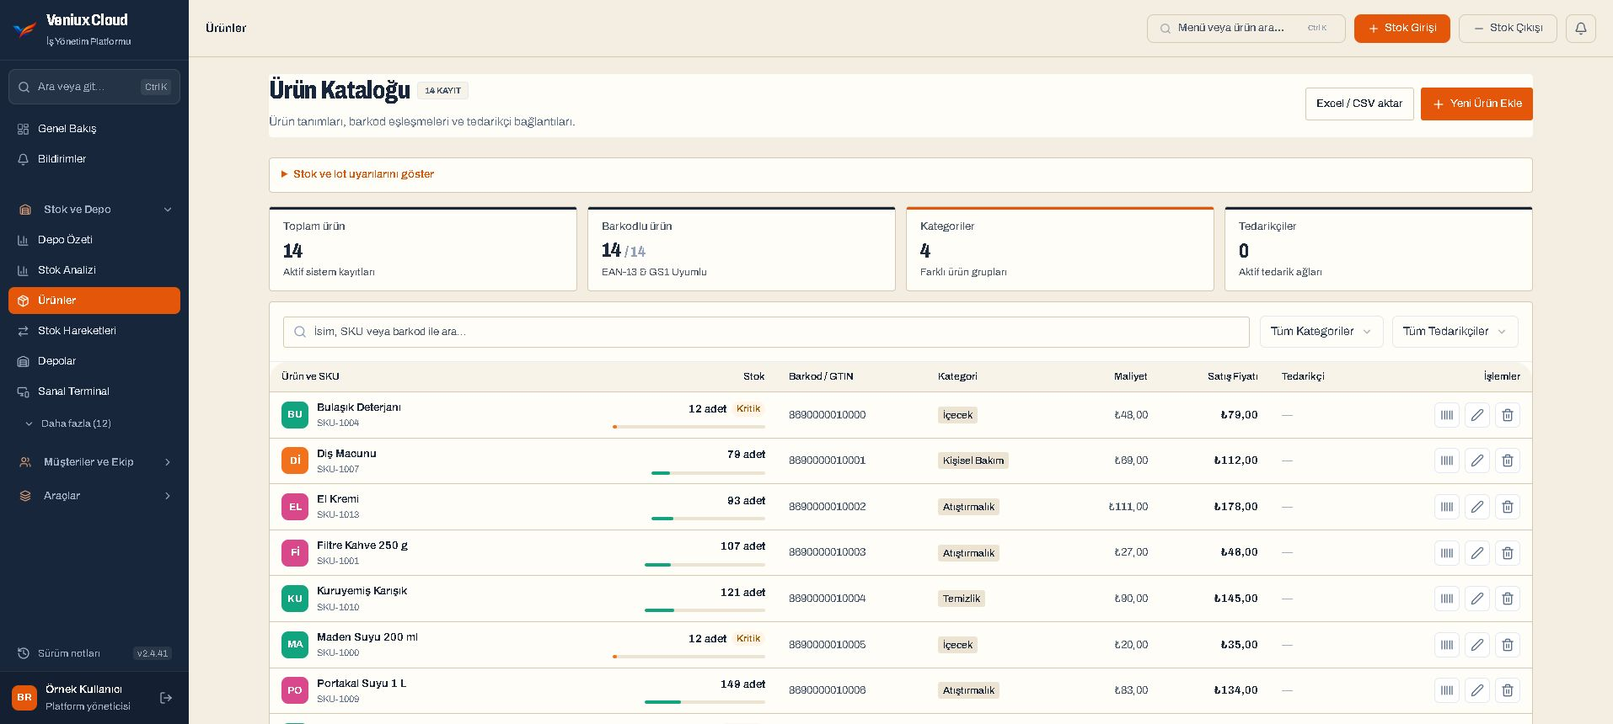
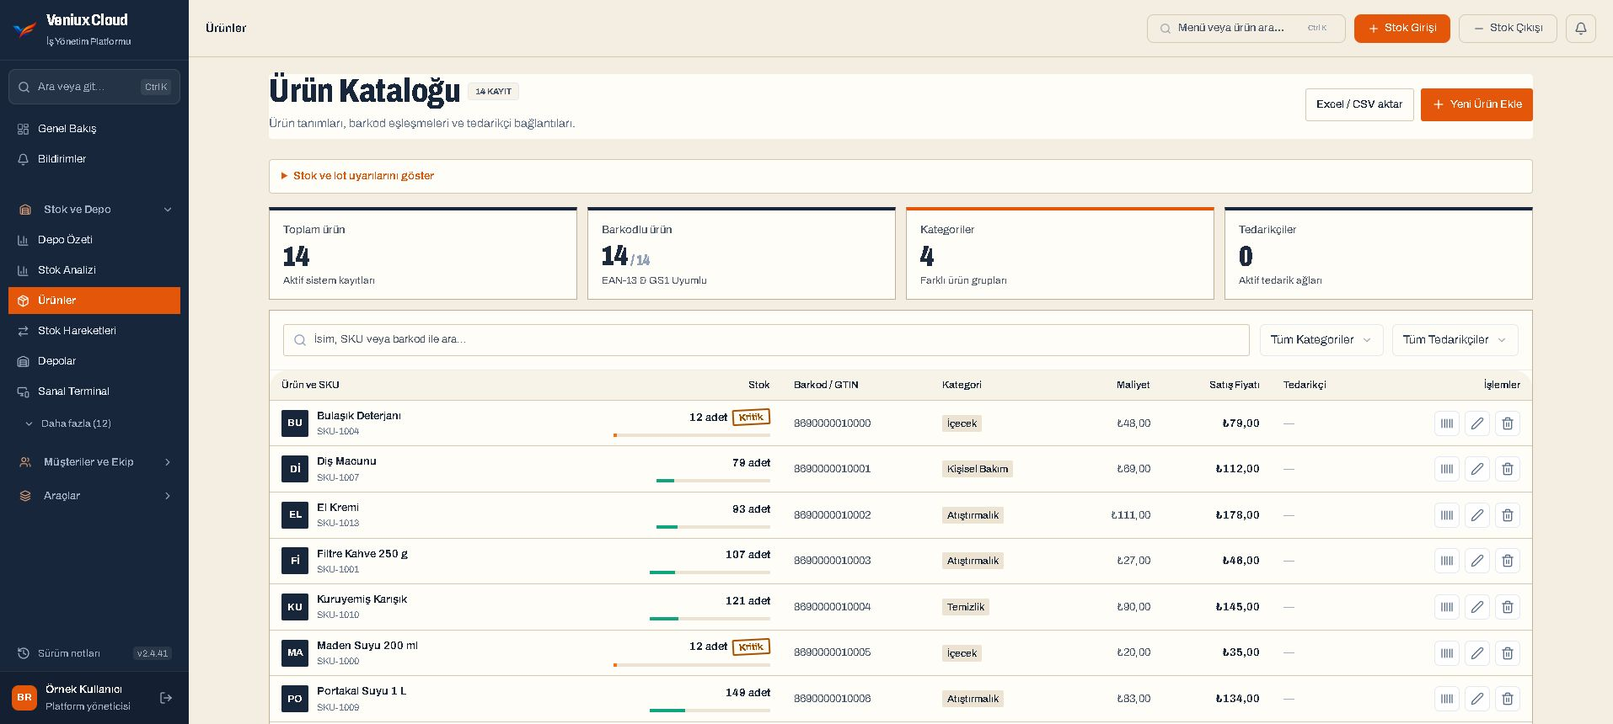
Alt sayfalara nesne ve yolculuk, fiyat etiketleri, programa damga ve etiket dili

diff --git a/website-php/assets/home.css b/website-php/assets/home.css
@@ -24,7 +24,7 @@ main h3{font-size:clamp(28px,3vw,38px);font-weight:750;font-stretch:80%;line-hei
 .hx-lead{max-width:30em;margin:26px 0 0;color:var(--ink-soft);font-size:21px;line-height:1.5}
 .hx-cta{display:flex;flex-wrap:wrap;align-items:center;gap:24px;margin:32px 0 0}
 .hx-textlink{font-weight:600;text-underline-offset:4px}
-.hx-shelf{position:relative;padding:34px 0 0}
+.hx-shelf{position:relative;padding:34px 0 0;justify-self:stretch}
 .hx-rail{position:absolute;left:0;right:-40vw;top:0;height:30px;background:#2a3a50;border-bottom:5px solid #15202e;z-index:0}
 .hx-label{position:relative;z-index:1;margin-left:6%;padding:20px 24px;background:var(--white);border:1px solid #c9bda6;transform:rotate(-1.6deg);transform-origin:top left}
 .hx-label:before{content:'';position:absolute;left:50%;top:-26px;width:90px;height:30px;margin-left:-45px;background:#f2e4a9cc;transform:rotate(1.5deg)}
@@ -120,3 +120,62 @@ main h3{font-size:clamp(28px,3vw,38px);font-weight:750;font-stretch:80%;line-hei
 @media(max-width:940px){.hx-hero{padding:40px 0 64px}.hx-hero-grid,.hx-till-grid,.hx-receipt-grid,.hx-plain-grid{grid-template-columns:minmax(0,1fr);gap:40px}.hx-journey-grid{display:block}.hx-stage{display:none}.hx-card-inline{display:block}.hx-step{min-height:0}.hx-tags{grid-template-columns:repeat(2,minmax(0,1fr))}}
 @media(max-width:940px){.hx-rail{left:-40vw}}
 @media(max-width:600px){body{font-size:17px}.hx-lead{font-size:19px}.hx-tags,.hx-qa{grid-template-columns:minmax(0,1fr)}.hx-pos{grid-template-columns:minmax(0,1fr)}.hx-pos-lines{min-height:0}.hx-label{margin-left:0;padding:16px}.hx-stamp{margin-left:18%}}
+
+/* Alt sayfa nesneleri */
+.hx-obj{position:relative;justify-self:center;width:100%}
+.hx-box{max-width:460px;padding:44px 40px;background:#c49a63;border:1px solid #9d7743;transform:rotate(-1.2deg)}
+.hx-box-tape{position:absolute;left:0;right:0;top:0;height:30px;background:#e0c08d;border-bottom:1px solid #b08a54}
+.hx-box-label{display:grid;gap:4px;padding:18px;background:var(--white);border:1px solid #9d7743;font-size:14.5px;font-weight:600}
+.hx-box-label strong{font-size:54px;font-weight:800;font-stretch:72%;line-height:1}
+.hx-box-label .hx-barcode{width:100%;height:42px;margin:6px 0}
+.hx-stamp-g{border-color:var(--green)!important;color:var(--green)!important}
+.hx-box .hx-stamp{position:absolute;right:-16px;bottom:-18px;margin:0}
+.hx-date,.hx-ticket{max-width:400px;padding:28px;background:var(--white);border:2px solid var(--ink);transform:rotate(-1.5deg)}
+.hx-date>span,.hx-ticket>span{font-size:14px;font-weight:700;letter-spacing:.05em}
+.hx-date strong{display:block;font-size:clamp(84px,10vw,128px);font-weight:900;font-stretch:68%;line-height:.95}
+.hx-date em{display:block;font-size:34px;font-style:normal;font-weight:800;font-stretch:75%}
+.hx-date-row{display:flex;justify-content:space-between;gap:10px;margin-top:12px;padding-top:10px;border-top:1px dashed var(--ink-soft)}
+.hx-date .hx-stamp{position:absolute;right:-14px;bottom:62px;margin:0}
+.hx-note{max-width:430px;padding:30px 28px;background:#fbeea8;border:1px solid #d9c770;font-size:19px;transform:rotate(1.4deg)}
+.hx-note-q{font-size:30px;font-weight:800;font-stretch:75%;line-height:1.1}
+.hx-note .hx-stamp{margin:6px 0 0 auto}
+.hx-ticket strong{display:block;margin:6px 0;font-size:60px;font-weight:900;font-stretch:70%;line-height:1}
+.hx-ticket .hx-barcode{width:100%;height:36px;margin-top:14px}
+.hx-receipt-big{max-width:360px;justify-self:center;font-size:17px;padding:30px 26px;border-top:0;box-shadow:none;background-image:none}
+.hx-receipt-big b{font-size:38px}
+.hx-receipt-total{color:var(--ink)!important;font-size:30px!important}
+.hx-band{padding:80px 0}
+.hx-band p{max-width:36em;margin:18px 0 0;color:#bcc6d4;font-size:21px}
+.hx-frame-sec{padding:88px 0}
+.hx-frame{margin:32px 0 0;background:var(--ink);border:1px solid var(--ink);padding:0 10px 10px}
+.hx-frame-bar{display:flex;gap:6px;padding:11px 2px}
+.hx-frame-bar i{width:10px;height:10px;border-radius:50%;background:#55667f}
+.hx-frame img{display:block;width:100%;height:auto;background:var(--white)}
+.hx-frame figcaption{padding:8px 2px 0;color:#bcc6d4;font-size:14px}
+.hx-faq-top{padding-top:88px}
+.hx-hero .hx-wrap,.hx-journey .hx-wrap{min-width:0}
+main .vs-legacy h1,main h1{max-width:13em}
+/* Fiyat etiketleri */
+.vs-legacy .pricing-intro{text-align:left!important;padding-top:56px!important}
+.vs-legacy .pricing-intro h1{margin-inline:0;font-size:clamp(54px,8vw,100px)!important}
+.vs-legacy .pricing-intro>p{margin-inline:0!important}
+.vs-legacy .pricing-grid{align-items:start;gap:26px}
+.vs-legacy .hx-hang{position:relative;margin-top:26px;padding:34px 24px 24px!important;border:1px solid #bfb196!important;border-top:1px solid #bfb196!important;background:var(--white)!important}
+.vs-legacy .hx-hang:nth-child(1){transform:rotate(-1deg)}
+.vs-legacy .hx-hang:nth-child(3){transform:rotate(1deg)}
+.vs-legacy .hx-hang:before{content:'';position:absolute;left:50%;top:-14px;width:28px;height:28px;margin-left:-14px;border:3px solid var(--ink);border-radius:50%;background:var(--paper)}
+.vs-legacy .hx-hang.price-featured{background:var(--ink)!important;border-color:var(--ink)!important}
+.vs-legacy .hx-hang.price-featured :is(h2,p,span,li,strong,div,.price-amount,.price-amount *){color:#fff!important}
+.vs-legacy .hx-hang.price-featured .button{background:var(--orange)!important;border-color:var(--orange)!important}
+.vs-legacy .price-amount{font-size:58px!important;font-weight:900!important;font-stretch:70%!important;line-height:1!important}
+.vs-legacy .price-amount span{font-size:16px!important;font-weight:600!important;font-stretch:100%}
+.vs-legacy .billing-switch a{color:var(--ink)!important;background:none!important;text-decoration:none}
+.vs-legacy .billing-switch a[aria-current]{background:var(--ink)!important;color:#fff!important}
+.vs-legacy .billing-switch a[aria-current] *{color:#fff!important;background:none!important}
+/* İndirme biletleri */
+.vs-legacy .program-heading h1{font-size:clamp(54px,8vw,100px)!important}
+.vs-legacy .program-download-grid>*{position:relative;background:var(--white)!important;border:1px solid #bfb196!important;border-left:10px solid var(--ink)!important}
+.vs-legacy .program-download-grid>*:nth-child(2){border-left-color:var(--orange)!important;transform:rotate(.5deg)}
+.vs-legacy .program-download-grid>*:nth-child(1){transform:rotate(-.5deg)}
+.vs-legacy .changelog-heading h1,.vs-legacy .hosting-guide-page h1,.vs-legacy .legal-document h1{font-size:clamp(46px,6.4vw,84px)!important}
+@media(max-width:940px){.hx-hero-grid>.hx-obj{margin-top:12px}.hx-box .hx-stamp,.hx-date .hx-stamp{right:0}.vs-legacy .hx-hang,.vs-legacy .program-download-grid>*{transform:none!important}}

diff --git a/frontend/src/vx-foundation.css b/frontend/src/vx-foundation.css
@@ -327,3 +327,34 @@ html:root[data-design='veniux']:not([data-theme='dark']) .pos-terminal .pos-pay:
 html:root[data-design='veniux']:not([data-theme='dark']) .pos-terminal .retail-empty>span{background:#f8e6d6;color:#b84504}
 html:root[data-design='veniux']:not([data-theme='dark']) .pos-terminal .pos-actions button:not(.pos-pay) svg{color:#b84504}
 html:root[data-design='veniux']:not([data-theme='dark']) .pos-terminal .retail-cart thead th{background:#f8f3e8}
+
+/* Site nesneleri programda: etiket kartları, damga durumları, barkod şeridi, fiş. */
+html:root[data-design='veniux']:not([data-theme='dark']) .enterprise-content h1{font-size:40px!important;line-height:1.02}
+html:root[data-design='veniux']:not([data-theme='dark']) .enterprise-content .vx-metric-strip>div,html:root[data-design='veniux']:not([data-theme='dark']) .enterprise-content .ax-kpi{position:relative;border:1px solid #bfb196;border-top:4px solid #17263a;border-radius:0;background:#fffdf8}
+html:root[data-design='veniux']:not([data-theme='dark']) .enterprise-content .vx-metric-strip>div:before{display:none}
+html:root[data-design='veniux']:not([data-theme='dark']) .enterprise-content .vx-metric-strip>div:nth-child(3){border-top-color:#e4570a}
+html:root[data-design='veniux']:not([data-theme='dark']) .enterprise-content .vx-metric-strip p{font-size:34px;font-weight:900!important;font-stretch:70%;line-height:1}
+html:root[data-design='veniux']:not([data-theme='dark']) .enterprise-content :is(.ax-panel,.veniux-card,.vx-table-wrap:not(.vx-table-flush)){border:1px solid #bfb196;border-radius:0;background:#fffdf8}
+html:root[data-design='veniux']:not([data-theme='dark']) .enterprise-content :is(.ax-panel-head,.business-panel-heading){border-bottom:2px solid #17263a}
+html:root[data-design='veniux']:not([data-theme='dark']) .enterprise-content tbody td{border-bottom:1px dashed #d6c9b2}
+html:root[data-design='veniux']:not([data-theme='dark']) .vx-stock-cell small{padding:0 6px;border:2px solid currentColor;border-radius:2px;background:none!important;font-weight:800;transform:rotate(-3deg)}
+html:root[data-design='veniux']:not([data-theme='dark']) .vx-stock-cell[data-state='low'] small{color:#a65200}
+html:root[data-design='veniux']:not([data-theme='dark']) .enterprise-content .ax-pill[data-tone]{padding:0 6px;border:2px solid currentColor;border-radius:2px;background:none;font-weight:800}
+html:root[data-design='veniux']:not([data-theme='dark']) .enterprise-content .vx-chip{border-radius:2px}
+html:root[data-design='veniux']:not([data-theme='dark']) .vx-product-mark{border-radius:2px;background:#17263a!important}
+html:root[data-design='veniux']:not([data-theme='dark']) .vx-stock-bar,html:root[data-design='veniux']:not([data-theme='dark']) .vx-stock-bar i{border-radius:0}
+html:root[data-design='veniux']:not([data-theme='dark']) .dx-hero{border-radius:0}
+html:root[data-design='veniux']:not([data-theme='dark']) .dx-hero-main:after{content:'';position:absolute;right:24px;top:22px;width:150px;height:34px;opacity:.55;background:repeating-linear-gradient(90deg,#fff 0 2px,transparent 2px 4px,#fff 4px 5px,transparent 5px 9px,#fff 9px 12px,transparent 12px 14px)}
+html:root[data-design='veniux']:not([data-theme='dark']) .dx-todo a{border:1px solid #bfb196;border-radius:0}
+html:root[data-design='veniux']:not([data-theme='dark']) .dx-todo a:hover{transform:rotate(-.5deg);border-color:#17263a}
+html:root[data-design='veniux']:not([data-theme='dark']) .dx-todo i{border-radius:0;background:none;border:2px solid currentColor}
+html:root[data-design='veniux']:not([data-theme='dark']) .dx-todo b{font-size:24px;font-stretch:72%}
+html:root[data-design='veniux']:not([data-theme='dark']) .pos-terminal .pos-total{border-radius:0}
+html:root[data-design='veniux']:not([data-theme='dark']) .pos-terminal :is(.pos-scan,.pos-actions,.retail-cart){border:1px solid #bfb196!important;border-radius:0!important}
+html:root[data-design='veniux']:not([data-theme='dark']) .pos-terminal .pos-line-total{font-stretch:75%;font-size:19px!important;font-weight:800}
+html:root[data-design='veniux']:not([data-theme='dark']) .pos-terminal .retail-cart td{border-bottom:1px dashed #d6c9b2}
+html:root[data-design='veniux']:not([data-theme='dark']) .pos-terminal .pos-line-stock[data-low]{border:2px solid currentColor;display:inline-block;padding:0 5px;transform:rotate(-3deg)}
+html:root[data-design='veniux']:not([data-theme='dark']) .pos-terminal .pos-status[data-success]{background:#0d7a57;color:#fff}
+html:root[data-design='veniux']:not([data-theme='dark']) .pos-terminal .pos-status[data-error]{background:#b92c1c;color:#fff}
+html:root[data-design='veniux']:not([data-theme='dark']) .enterprise-shell .sb .sb-item[data-active='true']{border-radius:0}
+html:root[data-design='veniux']:not([data-theme='dark']) .vx-dialog .vx-dialog-panel{border:1px solid #bfb196;border-top:6px solid #17263a;border-radius:0;background:#fffdf8}

diff --git a/website-php/solution-data.php b/website-php/solution-data.php
@@ -1,0 +1,40 @@
+<?php
+declare(strict_types=1);
+// Her çözüm sayfasının nesnesi ve yolculuğu. Kartlardaki değerler örnektir.
+return [
+ '/stok-yonetimi'=>['object'=>'label','band'=>['Barkodu okutmak stoğu değiştirmez.','Okutma ürünü bulur. Stok, siz giriş, satış veya transfer kaydedince değişir. Yanlışlıkla okutulan barkod stoğu bozmaz.'],'shot'=>['shot-products.jpg','Ürün listesi: stok miktarı, barkod ve fiyat'],'stops'=>[
+  ['Ürün kartı','Her ürünün tek bir kartı var.','Barkod, birim, fiyat ve tedarikçi aynı kartta. Elinizdeki Excel listesini sütun eşleştirip önizleyerek aktarırsınız.','Ürün kartı',[['Ad','Filtre kahve 250 g'],['Barkod','8690000010001'],['Satış fiyatı','46,00 ₺']],'Kayıtlı','good'],
+  ['Hareket','Stok neden değişti, belli.','Her giriş, satış, iade ve transfer tarihiyle kayda geçer. "Bu ürün nereye gitti?" sorusunun cevabı hareket geçmişindedir.','Hareket geçmişi',[['Mal kabul','+120'],['Kasa satışı','−2'],['Kalan','118 adet']],'Kayıtla uyumlu','good'],
+  ['Uyarı','Azalan ürün önünüze gelir.','Minimum seviyeye inen ürün kritik işaretlenir. Satış hızına göre kaç günde biteceği hesaplanır.','Kritik ürünler',[['Filtre kahve','18 / 30 adet'],['Bitmesine','3 gün'],['Öneri','80 adet']],'Kritik','warn'],
+  ['Sipariş','Liste hazır, onay sizde.','Öneriler tek düğmeyle tedarikçi başına taslağa dönüşür. Kimseye kendiliğinden sipariş gitmez.','Satın alma taslağı',[['Tedarikçi','Örnek Gıda Ltd.'],['Kalem','4 ürün'],['Durum','Onay bekliyor']],'Taslak','warn'],
+ ]],
+ '/depo-yonetimi'=>['object'=>'box','band'=>['Transfer stok yaratmaz.','Mal bir depodan diğerine geçince toplam değişmez, yalnız yeri değişir. Sayımda fark çıkarsa stok ancak yönetici onayından sonra güncellenir.'],'shot'=>['product-warehouse-v4.jpg','Depo ve tesis ekranı'],'stops'=>[
+  ['Mal kabul','Koli kapıda, kim aldı belli.','Siparişle karşılaştırarak kabul edin. Ürün, miktar ve teslim alan kayda geçer.','Mal kabul',[['Sipariş','Örnek Gıda Ltd.'],['Gelen','120 adet'],['Hedef raf','A-02']],'Kabul edildi','good'],
+  ['Raf','Ürün nerede diye aranmaz.','Raf haritası hangi gözde ne olduğunu gösterir. Ürünü rafa yerleştirme işlemi de kayıtlıdır.','Raf A-02',[['Filtre kahve','120 adet'],['Çay 1 kg','64 adet'],['Doluluk','Göz 14 dolu']],'Konum güncel','good'],
+  ['Toplama ve sevkiyat','Çıkan mal da kayıtlı.','Toplama listesiyle ürünü raftan alın, sevkiyatla çıkışını kapatın.','Toplama',[['Filtre kahve','24 adet'],['Raf','A-02'],['Durum','Toplanıyor']],'Sevkiyata hazır','warn'],
+  ['Sayım','Eksik mal sessizce kaybolmaz.','Rafı okutun, ürünleri okutun, sayaç artsın. Sayılanlar toplu olarak yönetici onayına gider.','Sayım farkı',[['Bulaşık deterjanı','5 adet eksik'],['Yaklaşık','240 TL'],['Durum','Onay bekliyor']],'Yöneticiye bildirildi','bad'],
+ ]],
+ '/market-pos'=>['object'=>'receipt','band'=>['Yetersiz stokta satış yapılmaz.','Sunucu reddeder, sepet korunur, kasiyer hatayı ödeme penceresinde görür. İndirim ve fiyat değişikliği de yönetici onayı ister.'],'shot'=>['shot-pos.jpg','Kasa ekranı: sepet ve ödenecek toplam'],'stops'=>[
+  ['Okut','Barkod okundu, sepete girdi.','Barkod okuyucu, telefon kamerası veya F6 ile ürün arama. Görselli hızlı satış modu da var.','Sepet',[['Filtre kahve','46,00'],['Tuzlu kraker','68,00'],['Toplam','114,00 ₺']],'2 ürün','good'],
+  ['Öde','F8, ödeme, bitti.','Nakit, kart, ikisi birden ya da yetkili kullanıcılar için veresiye. Para üstü kendiliğinden hesaplanır.','Ödeme',[['Toplam','114,00 ₺'],['Alınan','150,00 ₺'],['Para üstü','36,00 ₺']],'Tamamlandı','good'],
+  ['Düş','Satış olduğu an stoktan düşer.','Gün sonunu beklemeniz gerekmez. Fiş yazdırılır, hareket kaydı oluşur.','Stok',[['Filtre kahve','118 → 117'],['Tuzlu kraker','64 → 63'],['Kaynak','Kasa satışı']],'Stoktan düştü','good'],
+  ['Kapat','Vardiya sonunda kasa belli.','Vardiya açılır, kapanışta özet alınır. Gün sonu raporu ve iade aynı yerden.','Vardiya özeti',[['Satış','48 adet'],['Nakit','4.120,00 ₺'],['Kart','6.980,00 ₺']],'Kapatıldı','warn'],
+ ]],
+ '/lot-miat-takibi'=>['object'=>'date','band'=>['Toplam miktar yetmez.','Aynı üründen 100 adet var demek, hepsi aynı tarihli demek değil. Veniux partileri ayrı tutar.'],'shot'=>['product-lot-v4.jpg','Stok ve lot takibi paneli'],'stops'=>[
+  ['Parti','Her partinin kendi tarihi.','Mal kabulde lot numarası ve son kullanma tarihini girin. Parti stoğu ayrı izlenir.','Lot L-2041',[['Ürün','Süt 1 L'],['Miktar','48 adet'],['SKT','12.01.2027']],'Sağlam','good'],
+  ['Yaklaşan','Tarihi yaklaşan önünüze gelir.','Yaklaşan ve geçmiş tarihli lotlar ayrı listelenir. Uyarı süresini kendiniz belirlersiniz.','Tarih uyarısı',[['Lot L-1987','9 gün kaldı'],['Lot L-1950','3 gün kaldı'],['Lot L-1902','Geçmiş']],'Dikkat','warn'],
+  ['Satış','Önce tarihi yakın olan çıkar.','Kasada otomatik seçim en yakın uygun tarihi kullanır, isterseniz lotu elle seçersiniz. Satılamaz lot seçilemez.','Kasa · lot',[['Otomatik','En yakın tarih'],['Seçilen','L-1987'],['Satılamaz','L-1902']],'Korumalı','bad'],
+ ]],
+ '/yapay-zeka'=>['object'=>'note','band'=>['Sormadan işlem yapmaz.','Asistan bir şeyi değiştirmek isterse önce size gösterir, onaylamazsanız hiçbir şey olmaz. Stok tahmini de yapay zekâ değil, satış hızından yapılan düz hesaptır.'],'shot'=>['shot-overview.jpg','Genel bakış ekranı'],'stops'=>[
+  ['Sor','Türkçe sorun.','"Bu hafta hangi ürünler kritik?" gibi sorular kayıtlarınızdan yanıtlanır.','Soru',[['Siz','Hangi ürünler kritik?'],['Yanıt','4 ürün'],['Kaynak','Stok kayıtları']],'Yanıtlandı','good'],
+  ['Özetle','Güne başlarken özet.','Stok riski, açık uyarı ve geciken görevler tek yerde.','Günün öncelikleri',[['Stok riski','4'],['Açık uyarı','3'],['Geciken görev','0']],'Bugün','warn'],
+  ['Onayla','Son söz sizin.','Önerilen işlem önce ekrana gelir. Onaylarsanız uygulanır.','Önerilen işlem',[['İşlem','Sipariş taslağı'],['Kalem','4 ürün'],['Durum','Onayınızı bekliyor']],'Onay bekliyor','warn'],
+ ]],
+ '/demo'=>['object'=>'ticket','band'=>null,'shot'=>null,'stops'=>[
+  ['Yazın','İşinizi anlatın.','Depo sayınızı, kullanıcı sayınızı ve ne aradığınızı yazın.','Talep',[['Depo','2'],['Kullanıcı','6'],['Aranan','Kasa ve stok']],'Alındı','good'],
+  ['Görelim','Kendi işinize göre gösterelim.','Sizin senaryonuzu birlikte programda deneriz.','Görüşme',[['Konu','Mal kabul ve kasa'],['Süre','Birlikte belirlenir'],['Şekil','Çevrimiçi']],'Planlanıyor','warn'],
+ ]],
+ '/barkodlu-stok-takibi'=>['object'=>'label','cards'=>[['Ürün eşleştirme',[['Barkod','8690000010001'],['Ürün','Filtre kahve 250 g'],['Birim','Adet']],'Eşleşti','good'],['Okutma',[['Okunan','8690000010001'],['Stok değişimi','Yok'],['Sonraki adım','İşlem seçin']],'Yalnız arama','warn'],['İlk deneme',[['Ürün grubu','Küçük başlayın'],['Açılış','Sayarak girin'],['Kontrol','Hareket geçmişi']],'Önerilen','good'],['Bağlantı',[['USB','Klavye gibi'],['Seri','Ayar gerekir'],['Telefon','Kamera']],'Kullanıma bağlı','warn']]],
+ '/son-kullanma-tarihi-takibi'=>['object'=>'date','cards'=>[['Tarih uyarısı',[['Lot L-1987','9 gün kaldı'],['Lot L-1950','3 gün kaldı'],['Lot L-1902','Geçmiş']],'Dikkat','warn'],['Lot',[['Numara','L-2041'],['Miktar','48 adet'],['SKT','12.01.2027']],'Sağlam','good'],['Seçim',[['Otomatik','En yakın tarih'],['Elle','Lot seçilebilir'],['Geçmiş','Satılamaz']],'Korumalı','bad'],['Kontrol',[['Rapor','Yaklaşanlar'],['Süre','Siz belirlersiniz'],['Sorumlu','Depo']],'Takipte','good']]],
+ '/el-terminali-depo-yonetimi'=>['object'=>'box','cards'=>[['Terminal',[['Ürün','Filtre kahve'],['Raf','A-02'],['Stok','118 adet']],'Bulundu','good'],['Bağlantı',[['Sunucu','İşletmeniz'],['Giriş','QR kod'],['Yetki','Kullanıcı rolü']],'Bağlı','good'],['Depo işlemi',[['Sorgu','Barkodla'],['Kayıt','Yetkiye göre'],['Geçmiş','Tutulur']],'Kayıtlı','warn'],['Deneme',[['Cihaz','Önce deneyin'],['Okuyucu','Kamera veya tuş'],['Kabul','Sizde']],'Önerilen','warn']]],
+];

diff --git a/website-php/components/objects.php b/website-php/components/objects.php
@@ -1,0 +1,32 @@
+<?php
+declare(strict_types=1);
+// Barkod çizgileri süs amaçlıdır; sabit desenden üretilir.
+function homeBarcode(string $seed, int $height=44): string {
+    $x=0;$bars='';$hash=hash('crc32b',$seed).hash('md5',$seed);
+    foreach(str_split($hash) as $i=>$c){$v=hexdec($c);$w=1+$v%3;if($i%2===0)$bars.='<rect x="'.$x.'" y="0" width="'.$w.'" height="'.$height.'"/>';$x+=$w+($v%2);}
+    return '<svg class="hx-barcode" viewBox="0 0 '.$x.' '.$height.'" preserveAspectRatio="none" aria-hidden="true">'.$bars.'</svg>';
+}
+// Sayfanın ana nesnesi: raf etiketi, koli etiketi, fiş, tarih damgası, not, randevu fişi.
+function pageObject(string $type): string {
+    switch($type){
+     case 'box': return '<div class="hx-obj hx-box" role="img" aria-label="Koli çizimi: üzerinde sevk etiketi"><div class="hx-box-tape"></div><div class="hx-box-label"><span>SEVK ETİKETİ · A-02</span><strong>120 adet</strong><span>Filtre kahve 250 g</span>'.homeBarcode('koli',40).'<span>Teslim alan: Depo sorumlusu</span></div><div class="hx-stamp hx-stamp-g"><b>Kabul edildi</b><span>Örnek veri</span></div></div>';
+     case 'receipt': return '<div class="hx-obj hx-receipt hx-receipt-big" role="img" aria-label="Fiş çizimi: iki ürün, toplam 114 lira"><b>VENIUX MARKET</b><span>Kasa 01 · Örnek fiş</span><hr><div><span>Filtre kahve</span><span>46,00</span></div><div><span>Tuzlu kraker</span><span>68,00</span></div><hr><div class="hx-receipt-diff hx-receipt-total"><span>TOPLAM</span><span>114,00 ₺</span></div><div><span>Stok düştü</span><span>2 ürün</span></div>'.homeBarcode('fis',28).'</div>';
+     case 'date': return '<div class="hx-obj hx-date" role="img" aria-label="Son kullanma tarihi etiketi çizimi, üzerinde 3 gün kaldı damgası"><span>SON KULLANMA TARİHİ</span><strong>12.01</strong><em>2027</em><div class="hx-date-row"><span>Lot L-1950</span><span>48 adet</span></div><div class="hx-stamp"><b>3 gün kaldı</b><span>Örnek veri</span></div></div>';
+     case 'note': return '<div class="hx-obj hx-note" role="img" aria-label="Not kâğıdı çizimi: soru ve onay bekleyen öneri"><p class="hx-note-q">Bu hafta neyi sipariş etmeliyim?</p><p>4 ürün kritik. Filtre kahve 3 günde bitiyor. Taslak hazırlayayım mı?</p><div class="hx-stamp"><b>Onayınızı bekliyor</b><span>Örnek veri</span></div></div>';
+     case 'ticket': return '<div class="hx-obj hx-ticket" role="img" aria-label="Randevu fişi çizimi"><span>DEMO FİŞİ</span><strong>Sıra sizde</strong><div class="hx-date-row"><span>Süre</span><span>Birlikte belirlenir</span></div>'.homeBarcode('demo',32).'</div>';
+     default: return '<div class="hx-obj hx-shelf" role="img" aria-label="Raf etiketi çizimi: filtre kahve, 46 lira, 3 günde bitiyor uyarısı"><div class="hx-label"><div class="hx-label-top"><span>VENİUX · RAF A-02</span><span>GÖZ 14</span></div><strong class="hx-label-name">Filtre kahve 250 g</strong><div class="hx-label-mid">'.homeBarcode('filtre-kahve',52).'<div class="hx-price">46<small>,00 ₺</small></div></div><div class="hx-label-bot"><span>8690000010001</span><span>Stok: 18 adet</span></div></div><div class="hx-stamp"><b>3 günde bitiyor</b><span>Örnek veri</span></div><div class="hx-rail" aria-hidden="true"></div></div>';
+    }
+}
+function pageJourney(array $stops): string {
+    $list='';$cards='';
+    foreach($stops as $i=>[$tag,$title,$text,$head,$rows,$state,$tone]){
+        $rowHtml='';foreach($rows as [$a,$b])$rowHtml.='<div class="hx-card-row"><span>'.e($a).'</span><b>'.e($b).'</b></div>';
+        $card='<div class="hx-card-head">'.e($head).'</div>'.$rowHtml.'<div class="hx-card-state" data-tone="'.e($tone).'">'.e($state).'</div>';
+        $list.='<li class="hx-step" data-step="'.$i.'"><span class="hx-step-tag">'.str_pad((string)($i+1),2,'0',STR_PAD_LEFT).' · '.e($tag).'</span><h3>'.e($title).'</h3><p>'.e($text).'</p><div class="hx-card hx-card-inline" aria-hidden="true">'.$card.'</div></li>';
+        $cards.='<div class="hx-card" data-card="'.$i.'"'.($i===0?' data-on':'').'>'.$card.'</div>';
+    }
+    return '<div class="hx-journey-grid"><ol class="hx-steps">'.$list.'</ol><div class="hx-stage" aria-hidden="true"><div class="hx-stage-sticky">'.$cards.'<p class="hx-stage-note">Örnek veriler.</p></div></div></div>';
+}
+function pageFrame(string $image,string $alt,int $w=1500,int $h=900): string {
+    return '<section class="hx-frame-sec"><div class="hx-wrap"><h2>Programın kendi ekranı.</h2><figure class="hx-frame"><div class="hx-frame-bar" aria-hidden="true"><i></i><i></i><i></i></div><img src="/assets/'.e($image).'?v=5" width="'.$w.'" height="'.$h.'" loading="lazy" decoding="async" alt="'.e($alt).'"><figcaption>İşletme ve ürünler örnek veridir.</figcaption></figure></div></section>';
+}

diff --git a/website-php/solution-view.php b/website-php/solution-view.php
@@ -1,19 +1,23 @@
 <?php declare(strict_types=1);
 $faqs=(require __DIR__.'/product-faqs.php')[$path]??[];
-$shot=['/stok-yonetimi'=>['shot-products.jpg','Ürün listesi: stok miktarı, barkod ve fiyat'],'/depo-yonetimi'=>['product-warehouse-v4.jpg','Depo ve tesis ekranı'],'/market-pos'=>['shot-pos.jpg','Kasa ekranı: sepet ve ödenecek toplam'],'/lot-miat-takibi'=>['product-lot-v4.jpg','Stok ve lot takibi paneli'],'/yapay-zeka'=>['shot-overview.jpg','Genel bakış ekranı']][$path]??null;
+$data=(require __DIR__.'/solution-data.php')[$path]??['object'=>'label','stops'=>[],'band'=>null,'shot'=>null];
+$related=array_filter(['/stok-yonetimi'=>['Stok','Ürün kartı, hareket geçmişi'],'/depo-yonetimi'=>['Depo','Mal kabul, raf, sayım'],'/market-pos'=>['Kasa','Barkodlu satış, vardiya'],'/lot-miat-takibi'=>['Lot ve miat','Parti ve tarih takibi'],'/yapay-zeka'=>['Asistan','Kayıtlara soru sorun'],'/fiyatlandirma'=>['Fiyat','Paketler ve limitler']],static fn($p)=>$p!==$path,ARRAY_FILTER_USE_KEY);
 ?>
-<section class="vs-intro vs-wrap">
-  <h1><?=strip_tags(str_replace('<br>',' ',$page['headline']))?></h1>
-  <p class="vs-lead"><?=e($page['intro'])?></p>
-  <?php if($path!=='/demo'):?><p class="vs-cta"><a class="vs-btn" href="/?request_type=demo#iletisim">Demo isteyin</a> <a href="/fiyatlandirma">Fiyatlar</a></p><?php endif;?>
-</section>
-<?php if($shot):?><figure class="vs-shot vs-shot-wide vs-wrap"><img src="/assets/<?=e($shot[0])?>" alt="<?=e($shot[1])?>" width="1500" height="900" fetchpriority="high"><figcaption>Programın kendi ekranı, örnek veriyle.</figcaption></figure><?php endif;?>
-<?php if(isset($topics[$path])): $topic=$topics[$path]; ?>
-<section class="vs-wrap vs-block vs-columns">
-  <div><h2><?=e($topic[0])?></h2><p><?=e($topic[1])?></p></div>
-  <div><h2><?=e($topic[2])?></h2><p><?=e($topic[3])?></p></div>
-</section>
+<section class="hx-hero"><div class="hx-wrap hx-hero-grid">
+  <div><h1><?=strip_tags(str_replace('<br>',' ',$page['headline']))?></h1><p class="hx-lead"><?=e($page['intro'])?></p>
+  <?php if($path!=='/demo'):?><p class="hx-cta"><a class="hx-btn" href="/?request_type=demo#iletisim">Demo isteyin</a><a class="hx-textlink" href="/fiyatlandirma">Fiyatlar</a></p><?php endif;?></div>
+  <?=pageObject($data['object'])?>
+</div></section>
+<?php if($data['stops']):?>
+<section class="hx-journey"><div class="hx-wrap"><h2><?=$path==='/demo'?'Nasıl ilerliyor?':'Adım adım.'?></h2><?=pageJourney($data['stops'])?></div></section>
 <?php endif;?>
+<?php if($data['band']):?>
+<section class="hx-till hx-band"><div class="hx-wrap"><h2><?=e($data['band'][0])?></h2><p><?=e($data['band'][1])?></p></div></section>
+<?php endif;?>
+<?php if($data['shot'])echo pageFrame($data['shot'][0],$data['shot'][1],str_starts_with($data['shot'][0],'product-')?1914:1500,str_starts_with($data['shot'][0],'product-')?860:900);?>
 <?php if($faqs):?>
-<section class="vs-wrap vs-block"><h2>Sık sorulanlar</h2><div class="vs-qa"><?php foreach($faqs as [$question,$answer]):?><h3><?=e($question)?></h3><p><?=e($answer)?></p><?php endforeach;?></div></section>
+<section class="hx-faq hx-faq-top"><div class="hx-wrap"><h2>Sık sorulanlar</h2><div class="hx-qa"><?php foreach($faqs as [$question,$answer]):?><div><h3><?=e($question)?></h3><p><?=e($answer)?></p></div><?php endforeach;?></div></div></section>
+<?php endif;?>
+<?php if($path!=='/demo'):?>
+<nav class="hx-more" aria-label="İlgili sayfalar"><div class="hx-wrap"><h2>Rafta başka neler var?</h2><div class="hx-tags"><?php foreach($related as $url=>[$label,$text]):?><a href="<?=e($url)?>"><b><?=e($label)?></b><span><?=e($text)?></span></a><?php endforeach;?></div></div></nav>
 <?php endif;?>

diff --git a/website-php/growth-view.php b/website-php/growth-view.php
@@ -1,8 +1,18 @@
-<?php declare(strict_types=1); $guide=$growthPages[$path]; ?>
-<article class="growth-article wrap">
- <header class="growth-hero"><p class="eyebrow"><?=e($guide['label'])?></p><h1><?=e($guide['headline'])?></h1><p class="hero-intro"><?=e($guide['intro'])?></p><div class="hero-actions"><a class="button primary" href="/?request_type=demo&amp;solution=<?=e($guide['solution'])?>#iletisim">Demo görüşmesi isteyin</a><a class="text-link" href="/?request_type=quote&amp;solution=<?=e($guide['solution'])?>#iletisim">Teklif talep edin →</a></div></header>
- <figure class="product-screen"><a href="/assets/<?=e($guide['image'])?>" target="_blank" rel="noopener" aria-label="Ürün ekranını tam boy aç"><img src="/assets/<?=e($guide['image'])?>" width="<?=e((string)$page['image_width'])?>" height="<?=e((string)$page['image_height'])?>" alt="<?=e($guide['alt'])?>" loading="lazy" decoding="async"></a><figcaption><?=e($guide['caption'])?> <span aria-hidden="true">·</span> Tam boy görüntü için görsele dokunun.</figcaption></figure>
- <div class="growth-body"><?php foreach($guide['sections'] as [$heading,$body]):?><section><h2><?=e($heading)?></h2><p><?=e($body)?></p></section><?php endforeach;?></div>
- <aside class="growth-related" aria-label="İlgili çözümler"><h2>Bir sonraki adımı inceleyin.</h2><ul><?php foreach($guide['related'] as $url=>$label):?><li><a href="<?=e($url)?>"><?=e($label)?> →</a></li><?php endforeach;?></ul></aside>
+<?php declare(strict_types=1);
+$guide=$growthPages[$path];
+$data=(require __DIR__.'/solution-data.php')[$path]??['object'=>'label','cards'=>[]];
+$stops=[];
+foreach($guide['sections'] as $i=>[$heading,$body]){
+    $card=$data['cards'][$i%max(1,count($data['cards']))]??['Örnek',[],'Kayıtlı','good'];
+    $stops[]=[$card[0],$heading,$body,$card[0],$card[1],$card[2],$card[3]];
+}
+?>
+<article>
+<section class="hx-hero"><div class="hx-wrap hx-hero-grid">
+  <div><h1><?=e($guide['headline'])?></h1><p class="hx-lead"><?=e($guide['intro'])?></p><p class="hx-cta"><a class="hx-btn" href="/?request_type=demo&amp;solution=<?=e($guide['solution'])?>#iletisim">Demo isteyin</a><a class="hx-textlink" href="/?request_type=quote&amp;solution=<?=e($guide['solution'])?>#iletisim">Teklif alın</a></p></div>
+  <?=pageObject($data['object'])?>
+</div></section>
+<section class="hx-journey"><div class="hx-wrap"><h2>Adım adım.</h2><?=pageJourney($stops)?></div></section>
+<?=pageFrame($guide['image'],$guide['alt'],(int)$page['image_width'],(int)$page['image_height'])?>
+<nav class="hx-more" aria-label="İlgili çözümler"><div class="hx-wrap"><h2>Sonraki adım</h2><div class="hx-tags"><?php foreach($guide['related'] as $url=>$label):?><a href="<?=e($url)?>"><b><?=e($label)?></b></a><?php endforeach;?></div></div></nav>
 </article>
-

diff --git a/website-php/index.php b/website-php/index.php
@@ -8,6 +8,7 @@ require_once __DIR__ . '/pricing.php';
 require_once __DIR__ . '/seo.php';
 require_once __DIR__ . '/sponsor.php';
 require_once __DIR__ . '/components/components.php';
+require_once __DIR__ . '/components/objects.php';
 
 function e(string $value): string { return htmlspecialchars($value, ENT_QUOTES | ENT_SUBSTITUTE, 'UTF-8'); }
 
@@ -172,9 +173,9 @@ $schema=siteSeoGraph($config,$page,$path,$notFound);
     <link rel="icon" type="image/webp" href="/assets/logo-40-v1.webp">
     <meta name="color-scheme" content="light">
     <meta name="theme-color" content="#f4eee2">
-    <?php if($path!=="/"&&!isset($topics[$path])):?><link rel="stylesheet" href="/assets/<?=e($assetManifest[$assetGroup])?>"><?php endif;?>
+    <?php if($path!=="/"&&!isset($topics[$path])&&!isset($growthPages[$path])):?><link rel="stylesheet" href="/assets/<?=e($assetManifest[$assetGroup])?>"><?php endif;?>
     <link rel="stylesheet" href="/assets/veniux-site.css">
-    <link rel="preload" href="/assets/archivo-latin-wdth-normal.woff2" as="font" type="font/woff2" crossorigin><link rel="stylesheet" href="/assets/home.css"><?php if($path==="/"):?><script src="/assets/home.js" defer></script><?php endif;?>
+    <link rel="preload" href="/assets/archivo-latin-wdth-normal.woff2" as="font" type="font/woff2" crossorigin><link rel="stylesheet" href="/assets/home.css"><script src="/assets/home.js" defer></script>
     <script type="application/ld+json" nonce="<?=e($nonce)?>"><?=json_encode($schema, JSON_UNESCAPED_UNICODE|JSON_UNESCAPED_SLASHES|JSON_HEX_TAG|JSON_HEX_AMP|JSON_HEX_APOS|JSON_HEX_QUOT)?></script>
     <script src="/assets/<?=e($assetManifest['script'])?>" defer></script>
 </head>
@@ -192,7 +193,7 @@ $schema=siteSeoGraph($config,$page,$path,$notFound);
     </nav>
 <?php endif;?>
 
-<?php $vsLegacy=$path!=="/"&&!isset($topics[$path])&&!$notFound; if($vsLegacy):?><div class="vs-legacy"><?php endif;?>
+<?php $vsLegacy=$path!=="/"&&!isset($topics[$path])&&!isset($growthPages[$path])&&!$notFound; if($vsLegacy):?><div class="vs-legacy"><?php endif;?>
 <?php if(isset($legalPages[$path])): ?>
     <?php require __DIR__."/legal-view.php"; ?>
 <?php elseif($path==="/surum-arsivi"): ?>

diff --git a/website-php/pricing-view.php b/website-php/pricing-view.php
@@ -1,7 +1,6 @@
 <?php $annual=($_GET['donem']??'yillik')!=='uc-aylik'; $period=$annual?'yillik':'uc-aylik'; $plans=sitePlans(); ?>
 <section class="pricing-intro wrap">
- <p class="eyebrow"><span class="status-dot"></span> DAHA NET BİR BÜTÇE</p>
- <h1>Depo sayınıza göre fiyat.</h1>
+  <h1>Depo sayınıza göre fiyat.</h1>
  <p>İhtiyacınız kadar alan seçin. Üç aylık başlayın veya yıllık planla kullanım maliyetinizi azaltın.</p>
  <div class="billing-switch" aria-label="Plan süresi">
   <a href="/fiyatlandirma?donem=uc-aylik#planlar" <?=$annual?'':'aria-current="true"'?>>3 aylık</a>
@@ -12,7 +11,7 @@
 <section class="wrap pricing-section" id="planlar" aria-label="<?=$annual?'Yıllık':'3 aylık'?> paketler">
  <div class="pricing-grid">
  <?php foreach($plans as $code=>$plan): $amount=$plan[$annual?'annual':'quarter']; $saving=$plan['quarter']*4-$plan['annual']; ?>
- <article class="price-card <?=$code==='isletme'?'price-featured':''?>">
+ <article class="price-card hx-hang <?=$code==='isletme'?'price-featured':''?>">
   <div class="price-card-top"><span class="eyebrow"><?=e($plan['name'])?></span><span class="plan-number"><?=$code==='baslangic'?'01':($code==='isletme'?'02':'03')?></span></div>
   <h2><?=e($plan['tag'])?></h2><p class="plan-description"><?=e($plan['description'])?></p>
   <div class="price-amount"><?=siteMoney($amount)?><span>/ <?=$annual?'yıl':'3 ay'?></span></div>

diff --git a/website-php/home-view.php b/website-php/home-view.php
@@ -1,10 +1,4 @@
 <?php declare(strict_types=1);
-// Barkod çizgileri süs amaçlıdır; sabit desenden üretilir.
-function homeBarcode(string $seed, int $height=44): string {
-    $x=0;$bars='';$hash=hash('crc32b',$seed).hash('md5',$seed);
-    foreach(str_split($hash) as $i=>$c){$v=hexdec($c);$w=1+$v%3;if($i%2===0)$bars.='<rect x="'.$x.'" y="0" width="'.$w.'" height="'.$height.'"/>';$x+=$w+($v%2);}
-    return '<svg class="hx-barcode" viewBox="0 0 '.$x.' '.$height.'" preserveAspectRatio="none" aria-hidden="true">'.$bars.'</svg>';
-}
 $steps=[
  ['Mal geldi','Koli kapıda, kim saydı belli.','Mal kabulde ürünü okutur, miktarı girersiniz. Kim, ne zaman, kaç adet aldı; hepsi kayda geçer.','Mal kabul',[['Filtre kahve 250 g','+120 adet'],['Hedef raf','A-02'],['Kabul eden','Depo sorumlusu']],'Stoğa işlendi','good'],
  ['Rafa kondu','Ürün nerede diye aranmaz.','Her ürünün hangi depoda, hangi rafta olduğu görünür. Depolar arası transfer toplam stoğu şişirmez.','Raf A-02',[['Filtre kahve 250 g','120 adet'],['Çay 1 kg','64 adet'],['Kuruyemiş karışık','38 adet']],'Konum güncel','good'],
